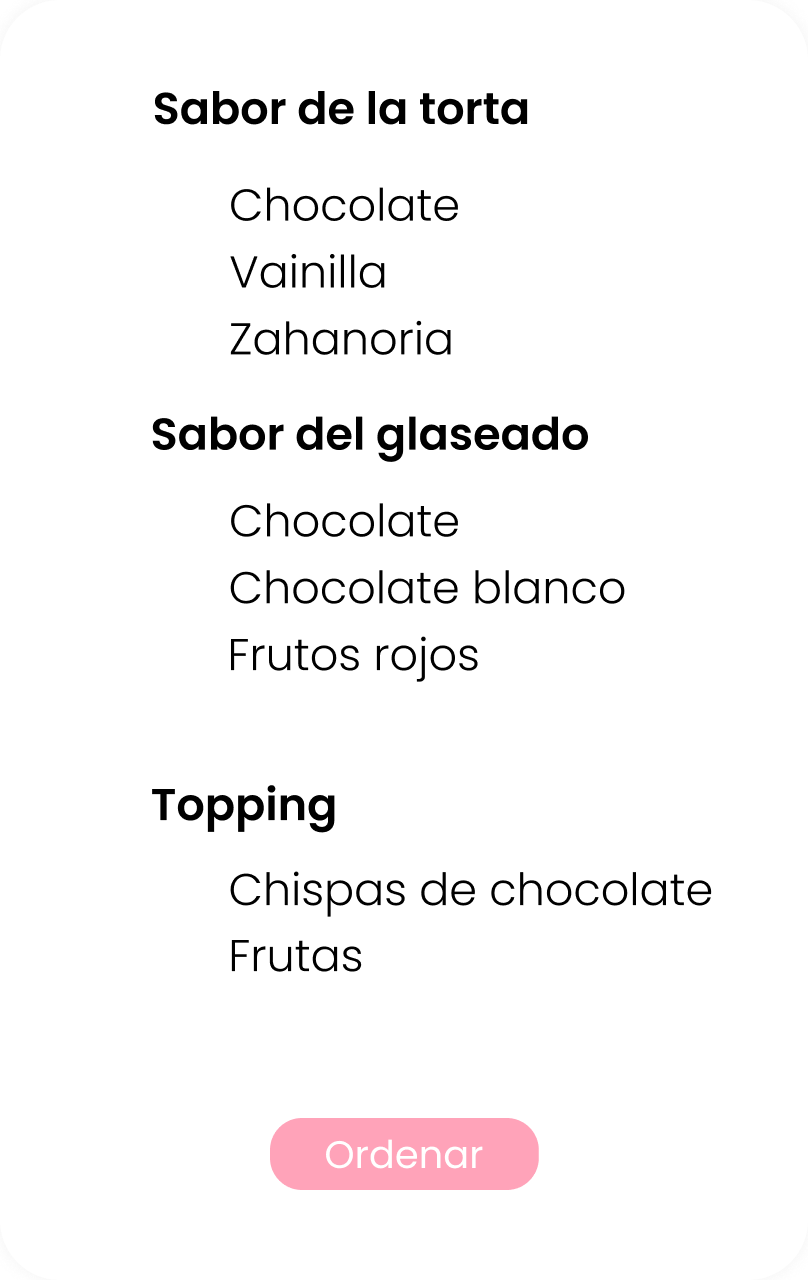
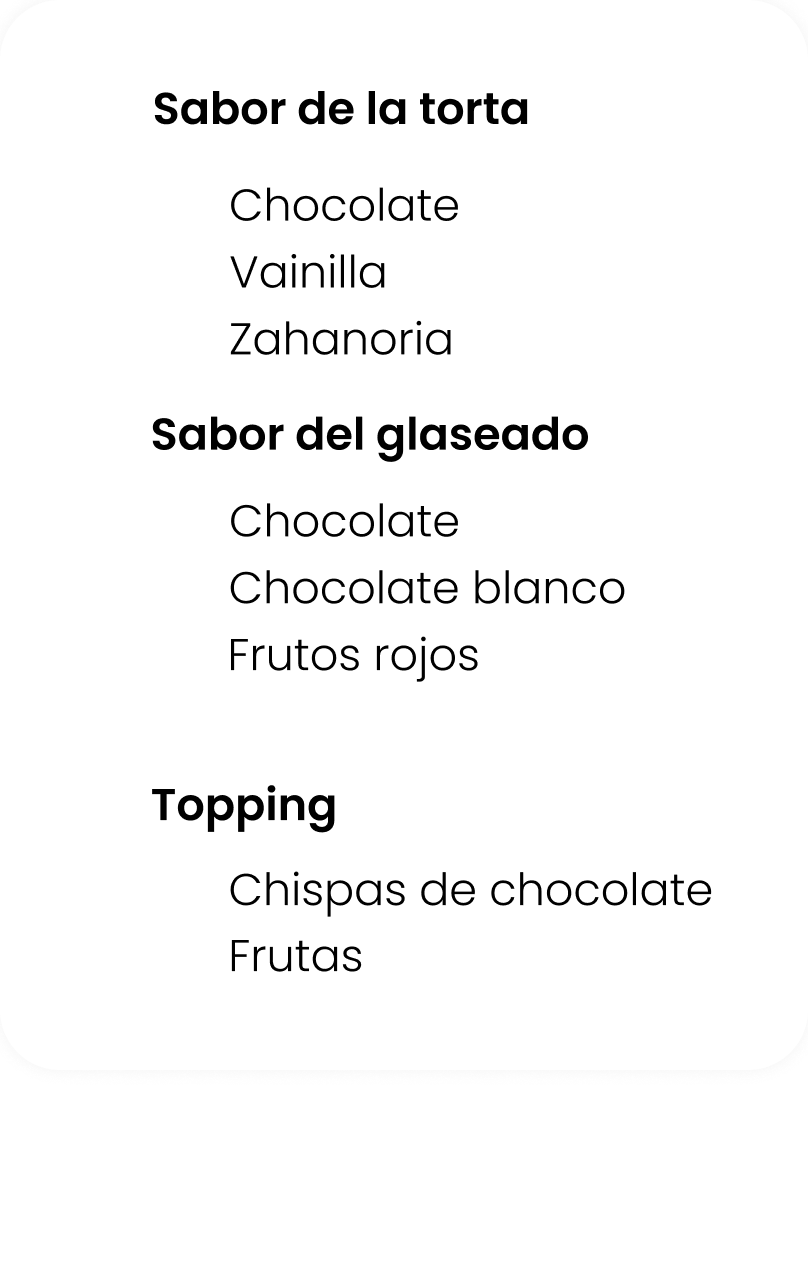
change

Changed region(s): [[0.3094, 0.875, 0.6807, 0.9375]]

diff --git a/empty-example/sketch.js b/empty-example/sketch.js
@@ -41,10 +41,14 @@ let znfToggle;
 let menu;
 let logo;
 let banner;
+
+let product;
 //cakes images
 let c, cb, cbc, cbf, cc, ccc, ccf, cf, cfc, cff, cnc, cnf, v, vf, vfc, vb, vbc, vbf, vc, vcc, vcf, vff, vnc, vnf, z, zb, zbc, zbf, zc, zcc, zcf, zf, zfc, zff, znc, znf;
 
 let checkbox1, checkbox2, checkbox3, checkbox4, checkbox5, checkbox6, checkbox8, checkbox9;
+
+const btnHecho = document.getElementById("btn");
 
 window.setup = function setup() {
 
@@ -87,7 +91,8 @@ window.setup = function setup() {
   zffToggle = false;
   zncToggle = false;
   znfToggle = false;
-
+  
+  product = "";
 
   //lateral menu
   menu = loadImage("../img/menu.png");
@@ -427,6 +432,9 @@ function chocolateCake() {
     cToggle = true;
     checkbox2.checked(false);
     checkbox3.checked(false);
+
+    product = "chocolate";
+
   } else {
     cToggle = false;
   }
@@ -552,6 +560,7 @@ function vanillaCake() {
 
   if (checkbox2.checked()) {
     vToggle = true;
+    product = "vanilla";
   } else {
     vToggle = false;
   }
@@ -676,6 +685,7 @@ function carrotCake() {
 
   if (checkbox3.checked()) {
     zToggle = true;
+    product = "carrot";
   } else {
     zToggle = false;
   }
@@ -794,3 +804,22 @@ function carrotCake() {
     zffToggle = false;
   }
 }
+
+
+//btn hecho
+btnHecho.addEventListener("click", (e) => {
+
+    //window.localStorage.setItem("category",product);
+
+    if(product === "chocolate") {
+      window.location.href= "https://linaperalta.github.io/pascake/dist/product.html?id=X8Ng0q0xzpVvQtRhGb5E";
+    }
+    if(product === "vanilla") {
+    window.location.href= "https://linaperalta.github.io/pascake/dist/product.html?id=G4hiKILkVgwxD6Qr1JhM";
+    }
+
+    if(product === "carrot") {
+    window.location.href= "https://linaperalta.github.io/pascake/dist/product.html?id=oq9TwjCNaHYUMXK7x3qF";
+    }
+
+});

diff --git a/empty-example/index.html b/empty-example/index.html
@@ -4,15 +4,8 @@
 <head>
   <meta charset="utf-8">
   <meta name="viewport" content="width=device-width, initial-scale=1.0">
+  <link rel="stylesheet" href="./styles.css">
   <title>p5.js example</title>
-  <style>
-    body {
-      padding: 0;
-      margin-top: 20;
-      background-color: #F2EDF0;
-     
-    }
-  </style>
   <script src="../addons/p5.js" type="module"></script>
   <!-- <script src="../addons/p5.sound.js"></script> -->
   <script src="./sketch.js"  type="module"></script>
@@ -21,6 +14,8 @@
 <body>
   <main>
   </main>
+
+<button type="button" class="btn" id="btn">Hecho</button>
   
 </body>
 

diff --git a/empty-example/styles.css b/empty-example/styles.css
@@ -1,0 +1,16 @@
+body {
+    padding: 0;
+    margin-top: 20;
+    background-color: #F2EDF0;
+  }
+
+.btn{
+    margin-left: 85%;
+    color: white;
+  width: 100px;
+  height: 30px;
+  border-radius: 10px;
+  background-color: #FFA3B9;
+  border: none;
+  font-family: 'Poppins', sans-serif;
+}
